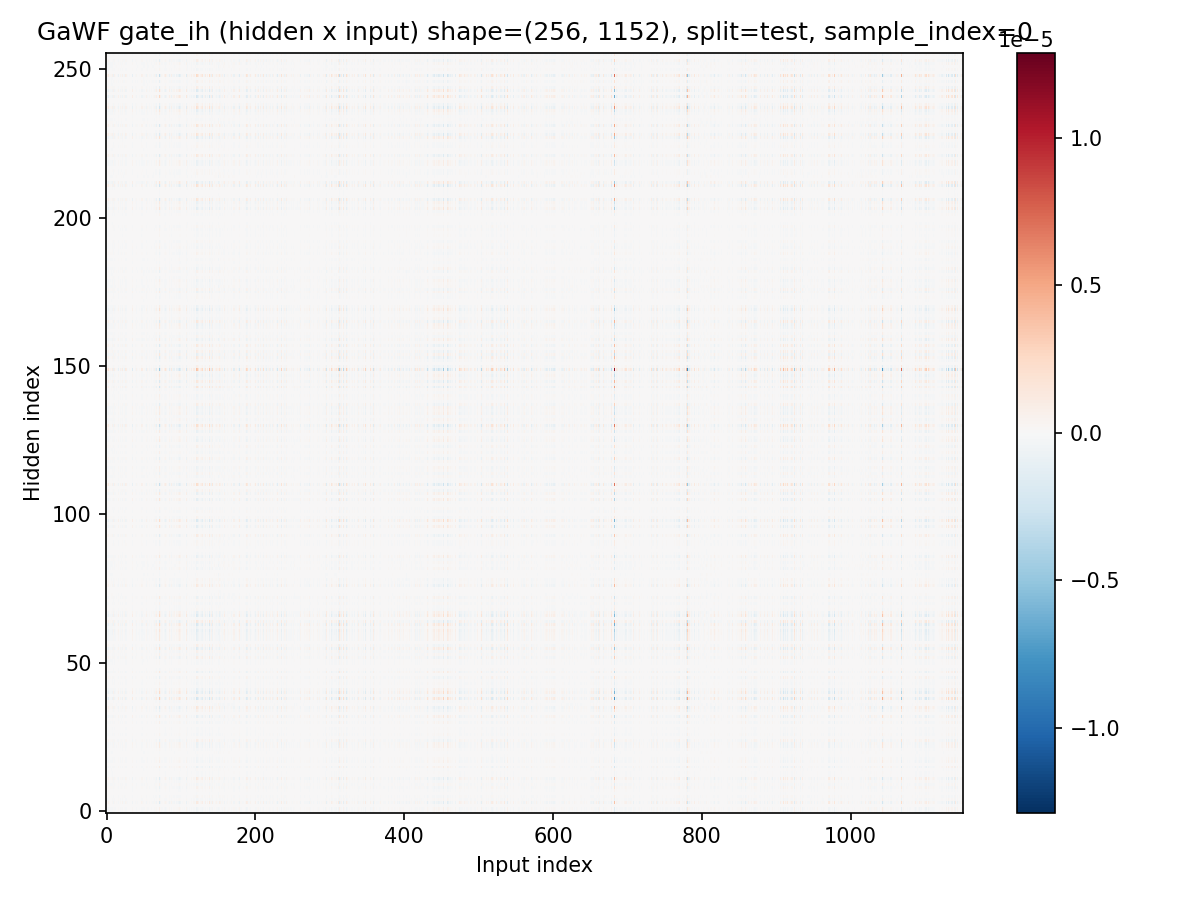
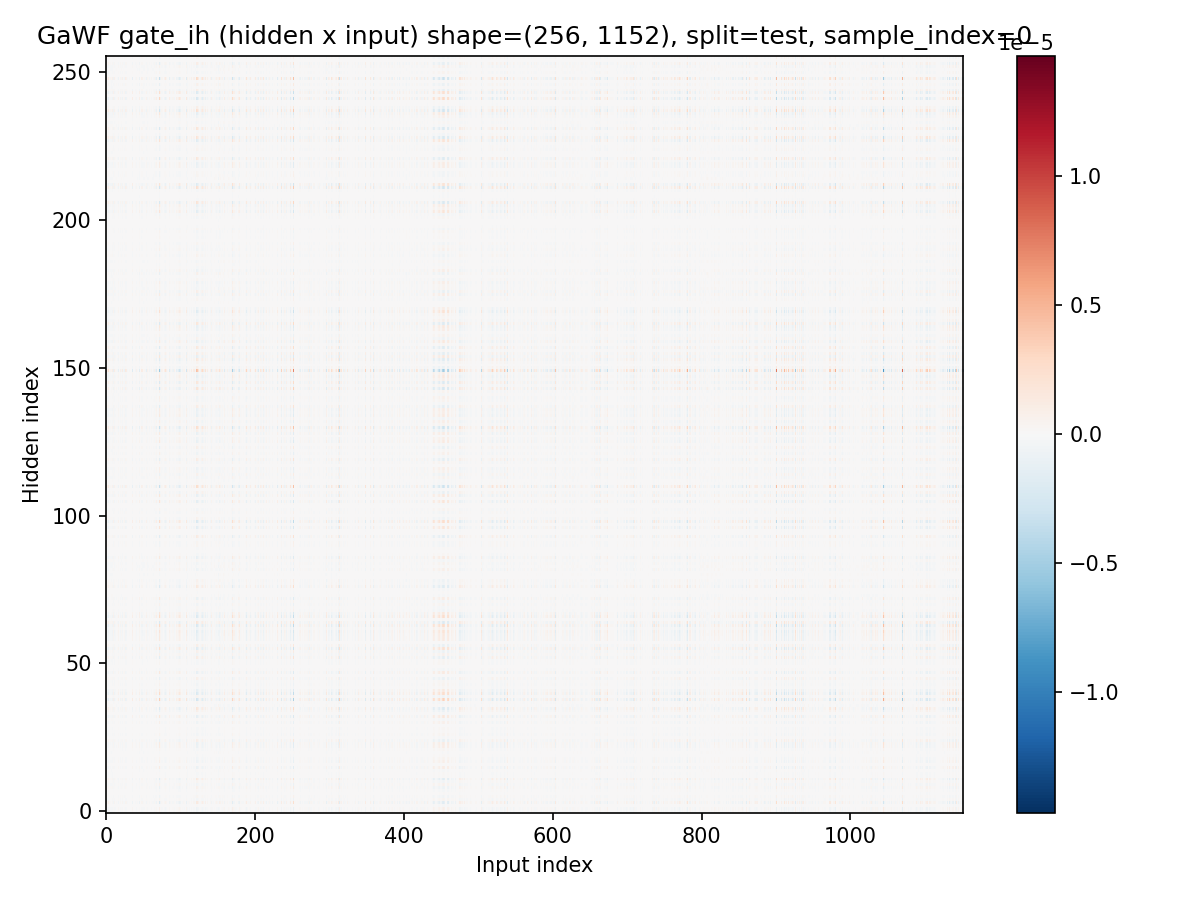
use pytorch default init(not xavier nor ortho) & adamw(not adam)

diff --git a/utils/train_rnn_engine.py b/utils/train_rnn_engine.py
@@ -62,6 +62,7 @@ def setup_training_components(
     use_tqdm: bool,
     seed: int,
     logger,
+    optim: str = "adam",
 ) -> Dict[str, Any]:
     """
     Build all training components:
@@ -128,20 +129,66 @@ def setup_training_components(
         train_dl_256 = None
         base_batch_size_for_logging = batch_size
 
-    # Optimizer: handle larger hidden sizes specially to improve numerical stability.
-    if hasattr(mdl, "hidden_size") and mdl.hidden_size >= 512:
-        optim = torch.optim.Adam(
-            mdl.parameters(),
-            lr=lr,
-            weight_decay=weight_decay if weight_decay is not None else 0.0,
-            eps=1e-6,
-        )
+    # Optimizer: for GaWF, disable weight decay on U and V; base params use passed wd.
+    wd = weight_decay if weight_decay is not None else 0.0
+    has_big_hidden = getattr(mdl, "hidden_size", 0) >= 512
+
+    optim = (optim or "adam").lower()
+    if optim == "adamw":
+        OptimClass = torch.optim.AdamW
+    elif optim == "muon":
+        if hasattr(torch.optim, "Muon"):
+            OptimClass = torch.optim.Muon
+        else:
+            raise RuntimeError(
+                "Selected optimizer 'muon' but torch.optim.Muon is not available in this "
+                "PyTorch version. Please upgrade PyTorch or choose a different optimizer."
+            )
     else:
-        optim = torch.optim.Adam(
-            mdl.parameters(),
-            lr=lr,
-            weight_decay=weight_decay if weight_decay is not None else 0.0,
-        )
+        OptimClass = torch.optim.Adam
+
+    # torch.optim.Muon only supports 2D parameters. Our models commonly include Conv2d
+    # (4D kernels) and bias vectors (1D), so proactively fall back to a safe optimizer.
+    if OptimClass is getattr(torch.optim, "Muon", None):
+        non_2d = []
+        for name, p in mdl.named_parameters():
+            if p is None:
+                continue
+            if p.dim() != 2:
+                non_2d.append((name, tuple(p.size())))
+                if len(non_2d) >= 5:
+                    break
+        if non_2d:
+            if logger is not None:
+                shown = ", ".join([f"{n}={s}" for n, s in non_2d])
+                logger.warning(
+                    "Requested optimizer 'muon' but found non-2D parameters (Muon only supports 2D). "
+                    "Falling back to AdamW. Examples: %s",
+                    shown,
+                )
+            OptimClass = torch.optim.AdamW
+
+    if is_gawf:
+        gawf_params = []
+        base_params = []
+        for name, param in mdl.named_parameters():
+            if "U" in name or "V" in name:
+                gawf_params.append(param)
+            else:
+                base_params.append(param)
+        param_groups = [
+            {"params": base_params, "weight_decay": wd},
+            {"params": gawf_params, "weight_decay": 0.0},
+        ]
+        optim_kwargs = {"lr": lr}
+        if OptimClass in (torch.optim.Adam, torch.optim.AdamW) and has_big_hidden:
+            optim_kwargs["eps"] = 1e-6
+        optim = OptimClass(param_groups, **optim_kwargs)
+    else:
+        optim_kwargs = {"lr": lr, "weight_decay": wd}
+        if OptimClass in (torch.optim.Adam, torch.optim.AdamW) and has_big_hidden:
+            optim_kwargs["eps"] = 1e-6
+        optim = OptimClass(mdl.parameters(), **optim_kwargs)
     lr_base = lr
 
     criterion_char = nn.CrossEntropyLoss()

diff --git a/train_rnn_updated.py b/train_rnn_updated.py
@@ -176,9 +176,25 @@ class MC_RNN_Dataset(Dataset):
 # - Dend: linear only (no nonlinearity on dendrite outputs).
 # - Soma: fixed aggregation (non-learnable), i.e. sum over dendrites per soma; then LeakyReLU on soma (match opt).
 # ==================== Training Function ====================
-def network_train(mdl, train_data, val_data, num_epochs=50, loss_weights=None, lr=0.001,
-                  use_acceleration=False, weight_decay=None, dropout_rate=None, rnn_diag_lambda=1e-4,
-                  use_mmap=False, use_tqdm=True, nofb=False, fb_start_epoch=999999, seed=42, logger=None):
+def network_train(
+    mdl,
+    train_data,
+    val_data,
+    num_epochs=50,
+    loss_weights=None,
+    lr=0.001,
+    use_acceleration=False,
+    weight_decay=None,
+    dropout_rate=None,
+    rnn_diag_lambda=1e-4,
+    use_mmap=False,
+    use_tqdm=True,
+    nofb=False,
+    fb_start_epoch=999999,
+    seed=42,
+    logger=None,
+    optim: str = "adam",
+):
     """
     Train model, supports sector mode and coordinate mode.
     Acceleration is config-driven; training loop is single-path (no AMP branches).
@@ -199,6 +215,7 @@ def network_train(mdl, train_data, val_data, num_epochs=50, loss_weights=None, l
         use_tqdm=use_tqdm,
         seed=seed,
         logger=logger,
+        optim=optim,
     )
 
     val_every = 1  # run full validation only every N epochs
@@ -438,6 +455,7 @@ if __name__ == "__main__":
             fb_start_epoch=args.fb_start_epoch,
             seed=args.seed,
             logger=logger,
+            optim=args.optim,
         )
 
         # Save training results

diff --git a/utils/train_rnn_core.py b/utils/train_rnn_core.py
@@ -1,3 +1,4 @@
+import torch
 import torch.nn as nn
 import torch.nn.functional as F
 
@@ -52,6 +53,22 @@ class BaseConvSequenceModel(nn.Module):
             self.fcchar = nn.Linear(hidden_size, num_classes)
             self.fcpos = nn.Linear(hidden_size, num_pos)
         self.to(self.device)
+
+    def _init_recurrent_module(self, rnn_module: nn.Module) -> None:
+        """
+        Initialize recurrent module parameters with a consistent scheme:
+        - weight_ih_* with Xavier uniform
+        - weight_hh_* with orthogonal
+        - bias_* with zeros
+        """
+        with torch.no_grad():
+            for name, param in rnn_module.named_parameters():
+                if "weight_ih" in name:
+                    nn.init.xavier_uniform_(param)
+                elif "weight_hh" in name:
+                    nn.init.orthogonal_(param)
+                elif "bias" in name:
+                    nn.init.zeros_(param)
 
     def encoder(self, x):
         x = self.conv1(x)
@@ -124,6 +141,7 @@ class BaseRNNConv(BaseConvSequenceModel):
             num_layers=1,
             batch_first=True,
         )
+        # self._init_recurrent_module(self.rnn)
         self.LNormRNN = nn.LayerNorm(hidden_size)
 
     def middle(self, x):

diff --git a/utils/train_gawf_core.py b/utils/train_gawf_core.py
@@ -37,6 +37,7 @@ class GaWFRNNConv(BaseConvSequenceModel):
         self.hidden_size = hidden_size
         input_size = self.encoder_flatten_size
         self.rnn = nn.RNN(input_size=input_size, hidden_size=hidden_size, num_layers=1, batch_first=True)
+        # self._init_recurrent_module(self.rnn)
 
         feedback_dim = num_classes + num_pos
         combined_weight_size = input_size + hidden_size
@@ -44,6 +45,15 @@ class GaWFRNNConv(BaseConvSequenceModel):
         self.V = nn.Parameter(torch.randn(feedback_dim, combined_weight_size) * 0.01)
         self.LNormRNN = nn.LayerNorm(hidden_size)
         self.register_buffer("prev_feedback", None)
+
+        self._init_gawf_params()
+
+    def _init_gawf_params(self) -> None:
+        """
+        Explicit initialization hook for GaWF-specific parameters (U and V).
+        Currently preserves the initialization defined in __init__ to keep behavior unchanged.
+        """
+        return
 
     def set_feedback_frozen(self, freeze: bool):
         for p in (self.U, self.V):
@@ -59,9 +69,9 @@ class GaWFRNNConv(BaseConvSequenceModel):
         V_hh = self.V[:, input_size:].unsqueeze(0)
         trans_ih = torch.matmul(self.U, fb_t * V_ih)
         trans_hh = torch.matmul(self.U, fb_t * V_hh)
-        tau = 2.0
-        gate_ih = torch.sigmoid(trans_ih / tau)
-        gate_hh = torch.sigmoid(trans_hh / tau)
+        tau = 0.5 # 2.0
+        gate_ih = torch.sigmoid(trans_ih / tau) * 2
+        gate_hh = torch.sigmoid(trans_hh / tau) * 2
         gated_weight_ih = gate_ih * weight_ih.unsqueeze(0)
         gated_weight_hh = gate_hh * weight_hh.unsqueeze(0)
         ih = torch.bmm(x_t.unsqueeze(1), gated_weight_ih.transpose(1, 2)).squeeze(1)

diff --git a/utils/train_helpers.py b/utils/train_helpers.py
@@ -584,6 +584,13 @@ def build_arg_parser() -> argparse.ArgumentParser:
         help="Weight decay values to search over (default: [1e-4])",
     )
     parser.add_argument(
+        "--optim",
+        type=str,
+        default="adamw",
+        choices=["adam", "adamw", "muon"],
+        help="Optimizer (optim) to use: 'adam', 'adamw', or 'muon' (default: 'adam')",
+    )
+    parser.add_argument(
         "--dropouts",
         dest="dropouts",
         type=float,